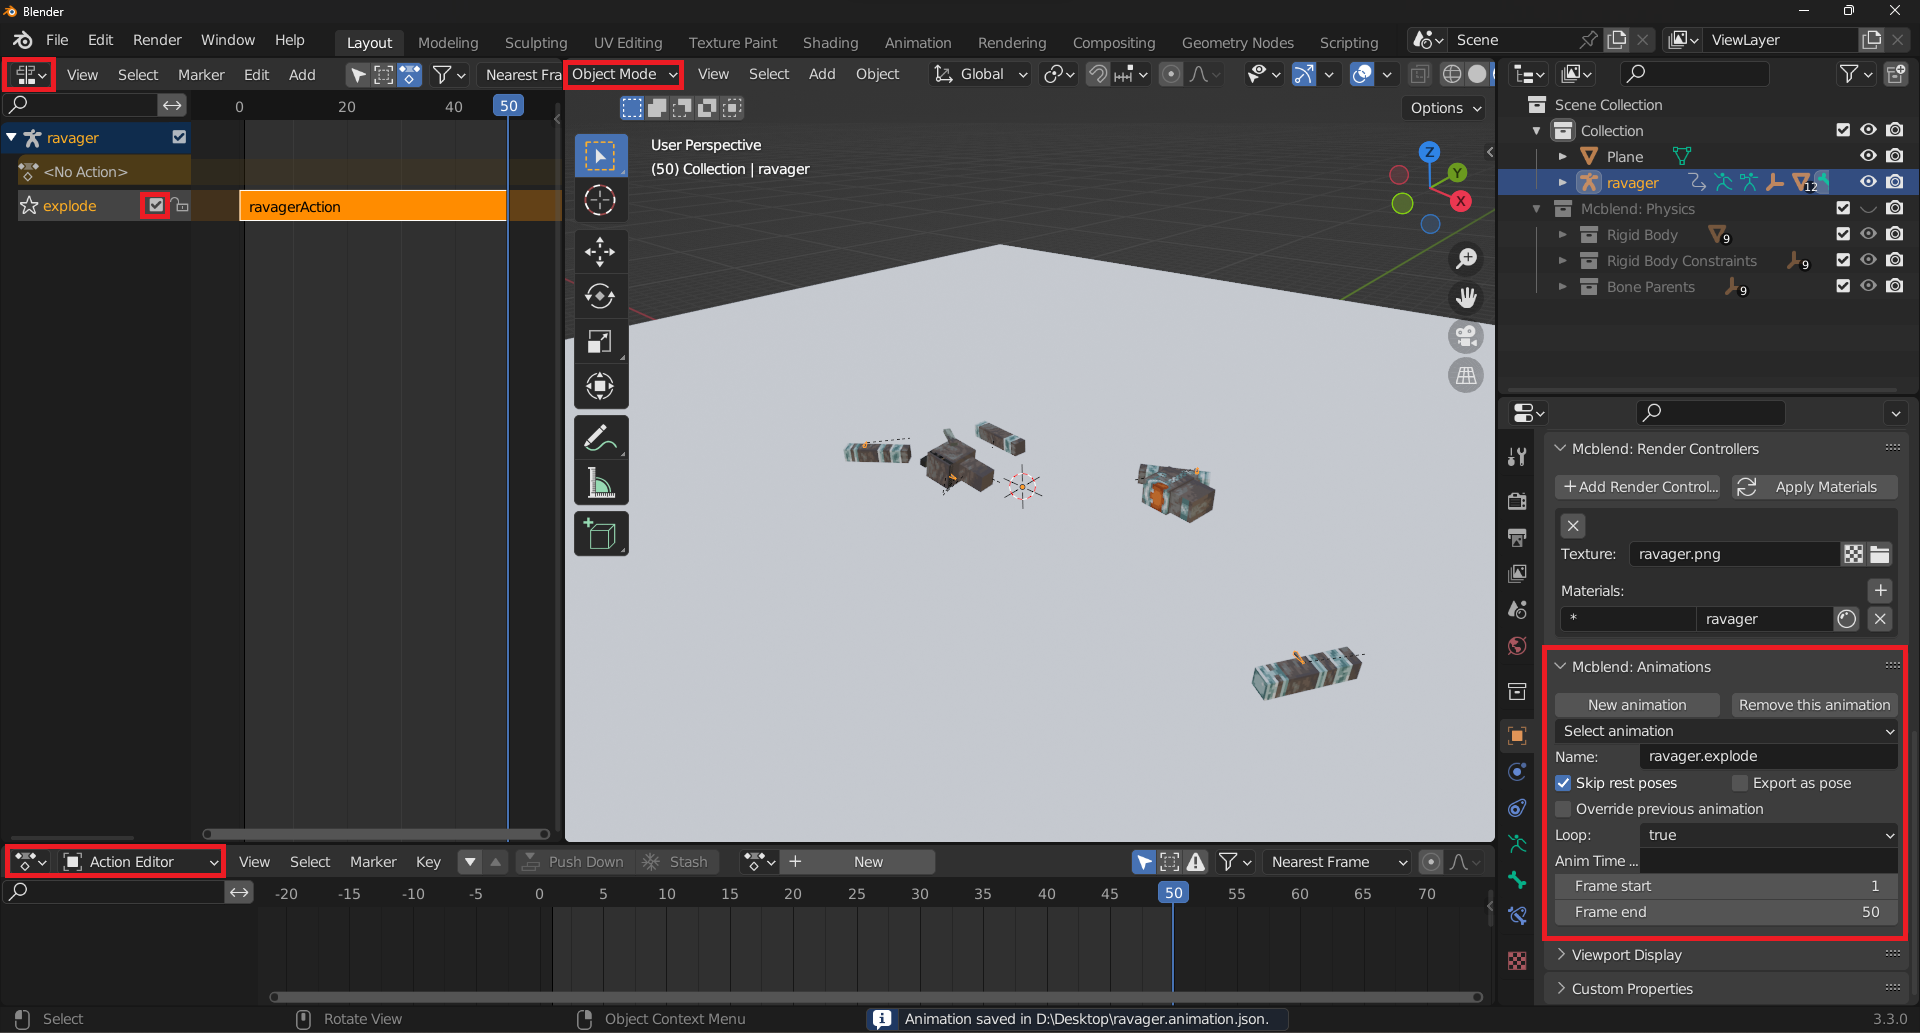
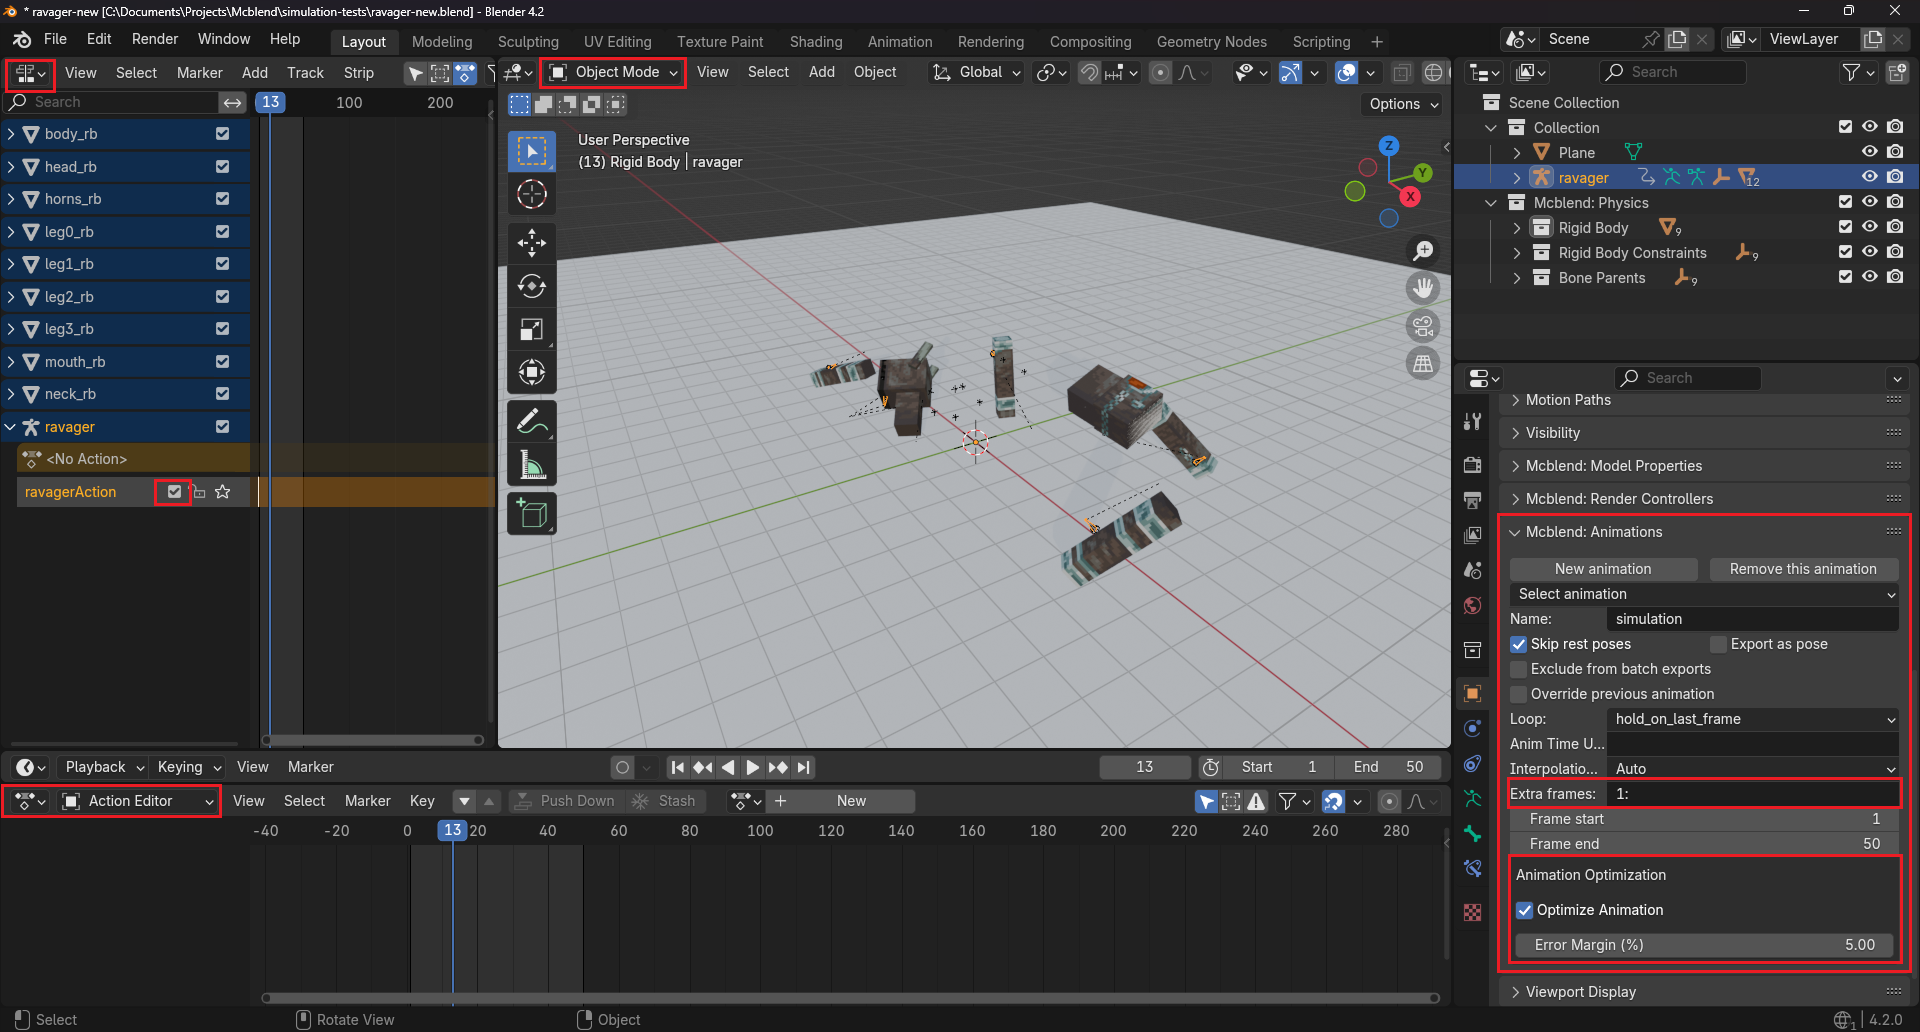
Documented the 'extra keyframes' feature. Close #122.

diff --git a/docs/gui/object_properties.md b/docs/gui/object_properties.md
@@ -54,21 +54,22 @@ Once you've set up your render controller, you can use the `Apply materials` but
 
 The `Mcblend: Animations panel` allows you to easily switch between animations in your project. These animations are represented as NLA tracks on the armature, with additional data attached to them. Selecting a different animation in the panel will also switch the active NLA track.
 
-- The `New animation` button creates a new animation. You can't use this operator while editing an action of the armature. If you want to create a new action, you need to stash the other action first.
-- The `Remove animation` button removes the currently active animation.
-- The `Select animation` dropdown list lets you select the animation to edit.
-- The `Name` field sets the name of the animation.
-- The `Skip rest poses` checkbox enables animation export optimization. If enabled, the keyframes that don't affect the armature (because they are the rest poses) are skipped in the exported file. In most cases, it's recommended to enable this option.
-- The `Export as pose` checkbox, if enabled, causes the exported animation to contain only one looped frame.
-- The `Exclude from batch exports` checkbox, if enabled, causes the animation to be skipped when using the `Batch Export Bedrock Animations` operator. Alternatively, you can select which animations to export during the export process.
-- The `Override previous animation` field directly translates to the override_previous_animation property of the Minecraft animation. It doesn't affect how the animation is rendered in Blender.
-- The `Loop` field directly translates to the loop property of the Minecraft animation file. There are three options: `true`, `false`, and `hold_on_last_frame`.
-- The `Anim Time Update` field directly translates to the anim_time_update property of the Minecraft animation file. You should either leave it empty (if you don't want to have anim_time_update in your animation) or put a Molang expression in it. It doesn't affect the animation in Mcblend because Mcblend doesn't support Molang.
-- The `Interpolation mode` field directly translates to the interpolation mode of the Minecraft animation file. There are four options: `linear`, `smooth`, `step`, and `auto`.
-- The `Frame start` field indicates the first frame of the animation. It tells Mcblend where the animation starts.
-- The `Frame end` field indicates the last frame of the animation. It tells Mcblend where the animation ends.
-- The `Optimize Animation` checkbox enables {ref}`animation export optimization<optimizing-animations>`.
-- The `Error margin` field defines how much error is allowed when optimizing the exported animation.
+- `New animation` - Creates a new animation. This operator cannot be used while editing an action of the armature; you must stash the current action first.
+- `Remove animation` - Deletes the currently active animation.
+- `Select animation` - A dropdown list to choose which animation to edit.
+- `Name` - Sets the name of the animation.
+- `Skip rest poses` - Enables animation export optimization. When enabled, keyframes that represent rest poses (and thus don't affect the armature) are skipped in the exported file. Enabling this option is generally recommended.
+- `Export as pose` - If enabled, the exported animation will contain only a single looped frame.
+- `Exclude from batch exports` - If enabled, this animation will be skipped when using the {ref}`Batch Export Bedrock Animations<batch-exporting-multiple-animations>` operator. Alternatively, you can select animations to export during the export process.
+- `Override previous animation` - Directly translates to the `override_previous_animation` property in the Minecraft animation file. This setting does not affect how the animation is rendered in Blender.
+- `Loop` - Directly translates to the `loop` property of the Minecraft animation file, with options: `true`, `false`, and `hold_on_last_frame`.
+- `Anim Time Update` - Directly translates to the `anim_time_update` property of the Minecraft animation file. Leave this empty if not needed, or provide a Molang expression. Note that Mcblend does not support Molang, so this setting does not affect the animation within Mcblend.
+- `Interpolation mode` - Directly translates to the interpolation mode of the Minecraft animation file, with options: `linear`, `smooth`, `step`, and `auto`. The `auto` option uses the interpolation based on the interpolation modes used for each keyframe.
+- `Extra frames` - Allows you to specify additional frames or frame ranges to be included in the exported animation. Refer to the dedicated {ref}`Extra Keyframes<extra-keyframes>` page for details on patterns and usage.
+- `Frame start` - Indicates the first frame of the animation, defining its starting point in Mcblend.
+- `Frame end` - Indicates the last frame of the animation, defining its end point in Mcblend.
+- `Optimize Animation` - Enables {ref}`animation optimization<optimizing-animations>` during export.
+- `Error margin` - Defines how much error is allowed when optimizing the exported animation.
 
 ## Object properties (bone of armature)
 

diff --git a/docs/animations/physics_simulation.md b/docs/animations/physics_simulation.md
@@ -54,18 +54,21 @@ The `Bone Parents` group never needs to be adjusted.
 ![](/img/animations/physics_simulation_bake_menu.png)
 ![](/img/animations/physics_simulation_bake_settings.png)
 
-7. The keyframes added by the `Bake to Keyframes` operation are not sufficient to properly export the animation. Mcblend requires keyframes to be added to the armature of the model, but the keyframes from the simulation are added to the rigid bodies.
+7. The keyframes generated by the `Bake to Keyframes` operation are insufficient for proper animation export. Mcblend requires keyframes to be applied to the model's armature, whereas the simulation applies them to rigid bodies.
 
-To successfully export the animation, you will need to manually add keyframes to the armature of the model. The movements of the simulation are complex, so you will need to add one keyframe for each frame of the simulation, approximately 50 frames in total. Mcblend does not currently have an automatic method for adding these keyframes, so you will need to do it manually. It doesn't matter what kind of keyframe you add - Mcblend uses the keyframes as points in the timeline that mark an important event in the animation, and then analyzes the pose of the model to compare it to the previous point in the animation.
+Fortunately, you do not need to manually add all 50 keyframes. Mcblend can automate this process during animation export. Simply {ref}`create a new empty Mcblend animation<creating-animations-from-scratch>` and utilize the {ref}`Extra Keyframes<extra-keyframes>` feature to add keyframes starting from frame 1 (define the range as `1:`).
 
-We can simply add the `Scale` keyframes to the root bone. It doesn't matter that the scale is the same on every frame, the important thing is that the keyframes are there.
+```{warning}
+If a warning prompts you to "Stash or push down" before adding a new animation when pressing the `New Animation` button, select `Push down` in the `Action Editor` tab. This action moves the current animation to the `Nonlinear Animation` editor while keeping it active.
+```
 
-![](/img/animations/physics_simulation_ravager_scale_keyframes.png)
+Before exporting, make sure that frame 0 is a rest pose and that all bone transformations at that frame are keyframed.
 
-8. For better results, before exporting select all the keyframes and change the interpolation mode to `Linear`. You can access the interpolation mode menu by right clicking in the `Dope Sheet` editor.
-
-9. [Export the animation](/animations/exporting_animations) using the knowledge from previous tutorials.
+To reduce animation size with a minimal impact on quality, consider using the `{ref}Animation Optimization<optimizing-animations>` feature.
 
 ![](/img/animations/physics_simulation_export_animation.png)
 
+9. [Export the animation](/animations/exporting_animations) using the knowledge from previous tutorials.
+
+Result:
 ![](/img/animations/physics_simulation_ravager.gif)

diff --git a/docs/animations/extra_keyframes.md b/docs/animations/extra_keyframes.md
@@ -1,0 +1,35 @@
+(extra-keyframes)=
+# Extra Keyframes
+
+The Extra Keyframes feature in Mcblend allows you to add additional keyframes to your exported animations. This is especially valuable when your model's animation is driven by constraints, physics simulations, or other procedural methods that don't place keyframes on the armature's timeline. Mcblend can then capture these dynamic poses at specified frames without requiring you to manually keyframe them. This feature deosn't replace explicitly set timeline keyframes; instead, it supplements them
+
+Extra Keyframes complement the {ref}`Animation Optimization<optimizing-animations>` feature; they add extra detail to exported animations, while the optimization removes redundant keyframes.
+
+![](/img/animations/object_properties_animations_extra_frames.png)
+
+## How it Works
+
+In the `Mcblend: Animations` panel (found in `Object Properties` when an Armature is selected), you'll find an "Extra frames" field. This field accepts a pattern string that defines individual frames or ranges of frames to be added to the animation during export.
+
+### Frame Range Patterns
+
+The patterns use a colon-separated and comma-separated format, based on the following rules:
+
+- `START:END` - Includes all integer frames from `START` to `END` (inclusive).
+- `START:STEP:END` - Includes frames from `START` to `END`, incrementing by `STEP`.
+- `FRAME` - Includes a single, specific frame.
+- `START:` - Includes all frames from `START` to the end of the animation (as defined by the "Frame end" property of the animation).
+- `START:STEP:` - Includes all frames from `START` to the end of the animation, incrementing by `STEP`.
+- You can combine multiple patterns by separating them with commas.
+
+Examples:
+- `1:10` adds frames 1, 2, 3, 4, 5, 6, 7, 8, 9, 10.
+- `1:2:10` adds frames 1, 3, 5, 7, 9.
+- `15` adds frame 15.
+- `50:` adds all frames from 50 to the animation's end.
+- `1:2:` adds frames 1, 3, 5, ... up to the animation's end.
+- `1:5, 10:2:20, 25, 27:` would include frames 1 through 5, then 10, 12, 14, 16, 18, 20, then frame 25, and finally frames 27, 28, 29... up to the animation's end.
+
+## Interpolation
+
+It's important to note that all keyframes added via the "Extra frames" feature will use **linear interpolation** in the exported Minecraft animation.

diff --git a/docs/animations/exporting_animations.md b/docs/animations/exporting_animations.md
@@ -16,6 +16,7 @@ The `Optimize Animation` checkbox allows you to apply **lossy** optimization to 
 
 Exporting a single animation is similar to exporting a model, as explained in the {ref}`Creating animations from scratch<creating-animations-from-scratch>` documentation page. Go to `File > Export > Export Bedrock Animation` and select the export path. If the file already exists and is a valid animation file, the exported animation will be appended/updated.
 
+(batch-exporting-multiple-animations)=
 ## Batch exporting multiple animations
 
 If your armature contains several animations you can export **all of them at once** using the *Batch Export Bedrock Animations* operator:

diff --git a/docs/index.md b/docs/index.md
@@ -40,6 +40,7 @@ Essential concepts for creating animations in Mcblend <animations/essential_conc
 Creating animations from scratch <animations/creating_animations_from_scratch>
 Exporting animations <animations/exporting_animations>
 Optimizing animations <animations/optimizing_animations>
+Extra keyframes <animations/extra_keyframes>
 Animating sound and particle effects <animations/animating_sound_and_particle_effects>
 Physics simluation <animations/physics_simulation>
 ```
